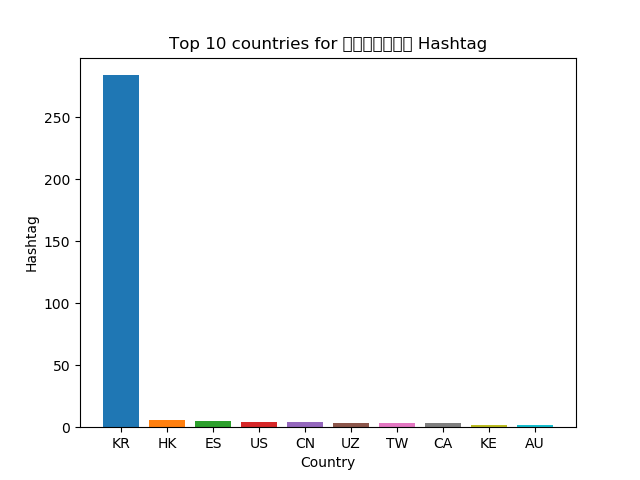
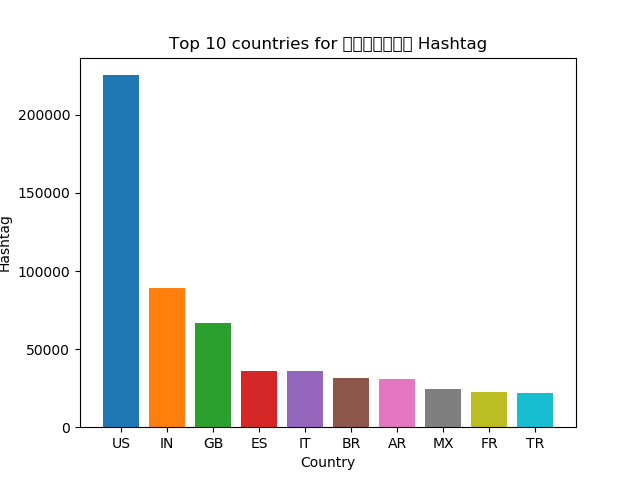
ha3yat tany

diff --git a/src/visualize.py b/src/visualize.py
@@ -26,7 +26,7 @@ if args.percent:
         counts[args.key][k] /= counts['_all'][k]
 
 # print the count values
-items = sorted(counts[args.key].items(), key=lambda item: (item[1],item[0]))
+items = sorted(counts[args.key].items(), key=lambda item: (item[1],item[0]), reverse=True)
 for k,v in items:
     print(k,':',v)
 
@@ -35,12 +35,12 @@ for k,v in items[:10]:
     plt.bar(k, v)
 
 # Set plot title and axis labels
-plt.title('Top 10 countries for coronavirus Hashtag')
+plt.title('Top 10 countries for 코로나바이러스 Hashtag')
 plt.xlabel('Country')
-plt.ylabel('Number of Tweets')
+plt.ylabel('Hashtag')
 
 # Save plot as PNG file
-plt.savefig('coronavirus_country.png')
+plt.savefig('country_other.png')
 
 
 # Show plot
